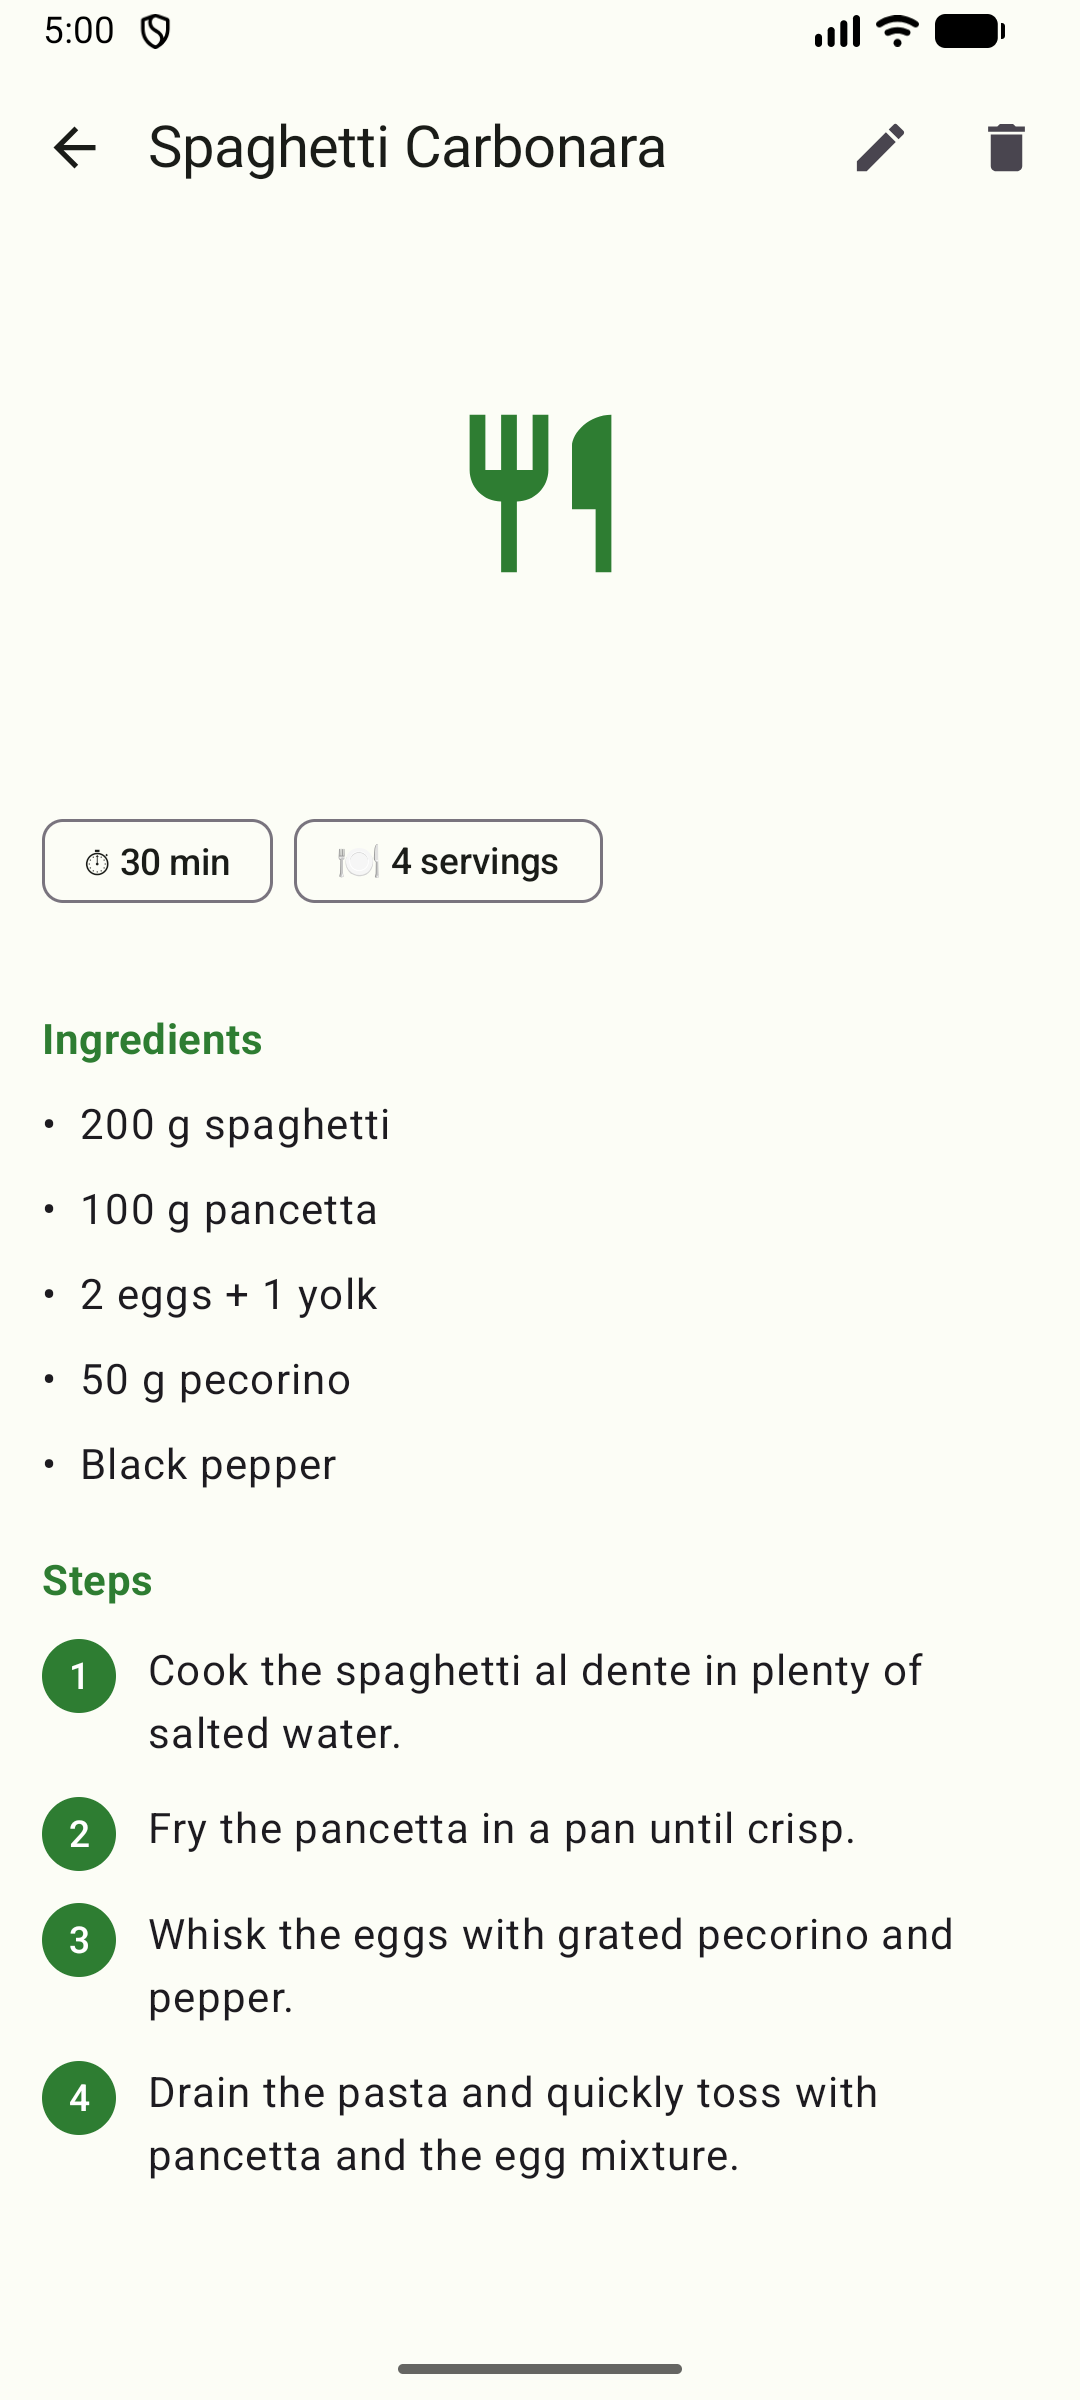
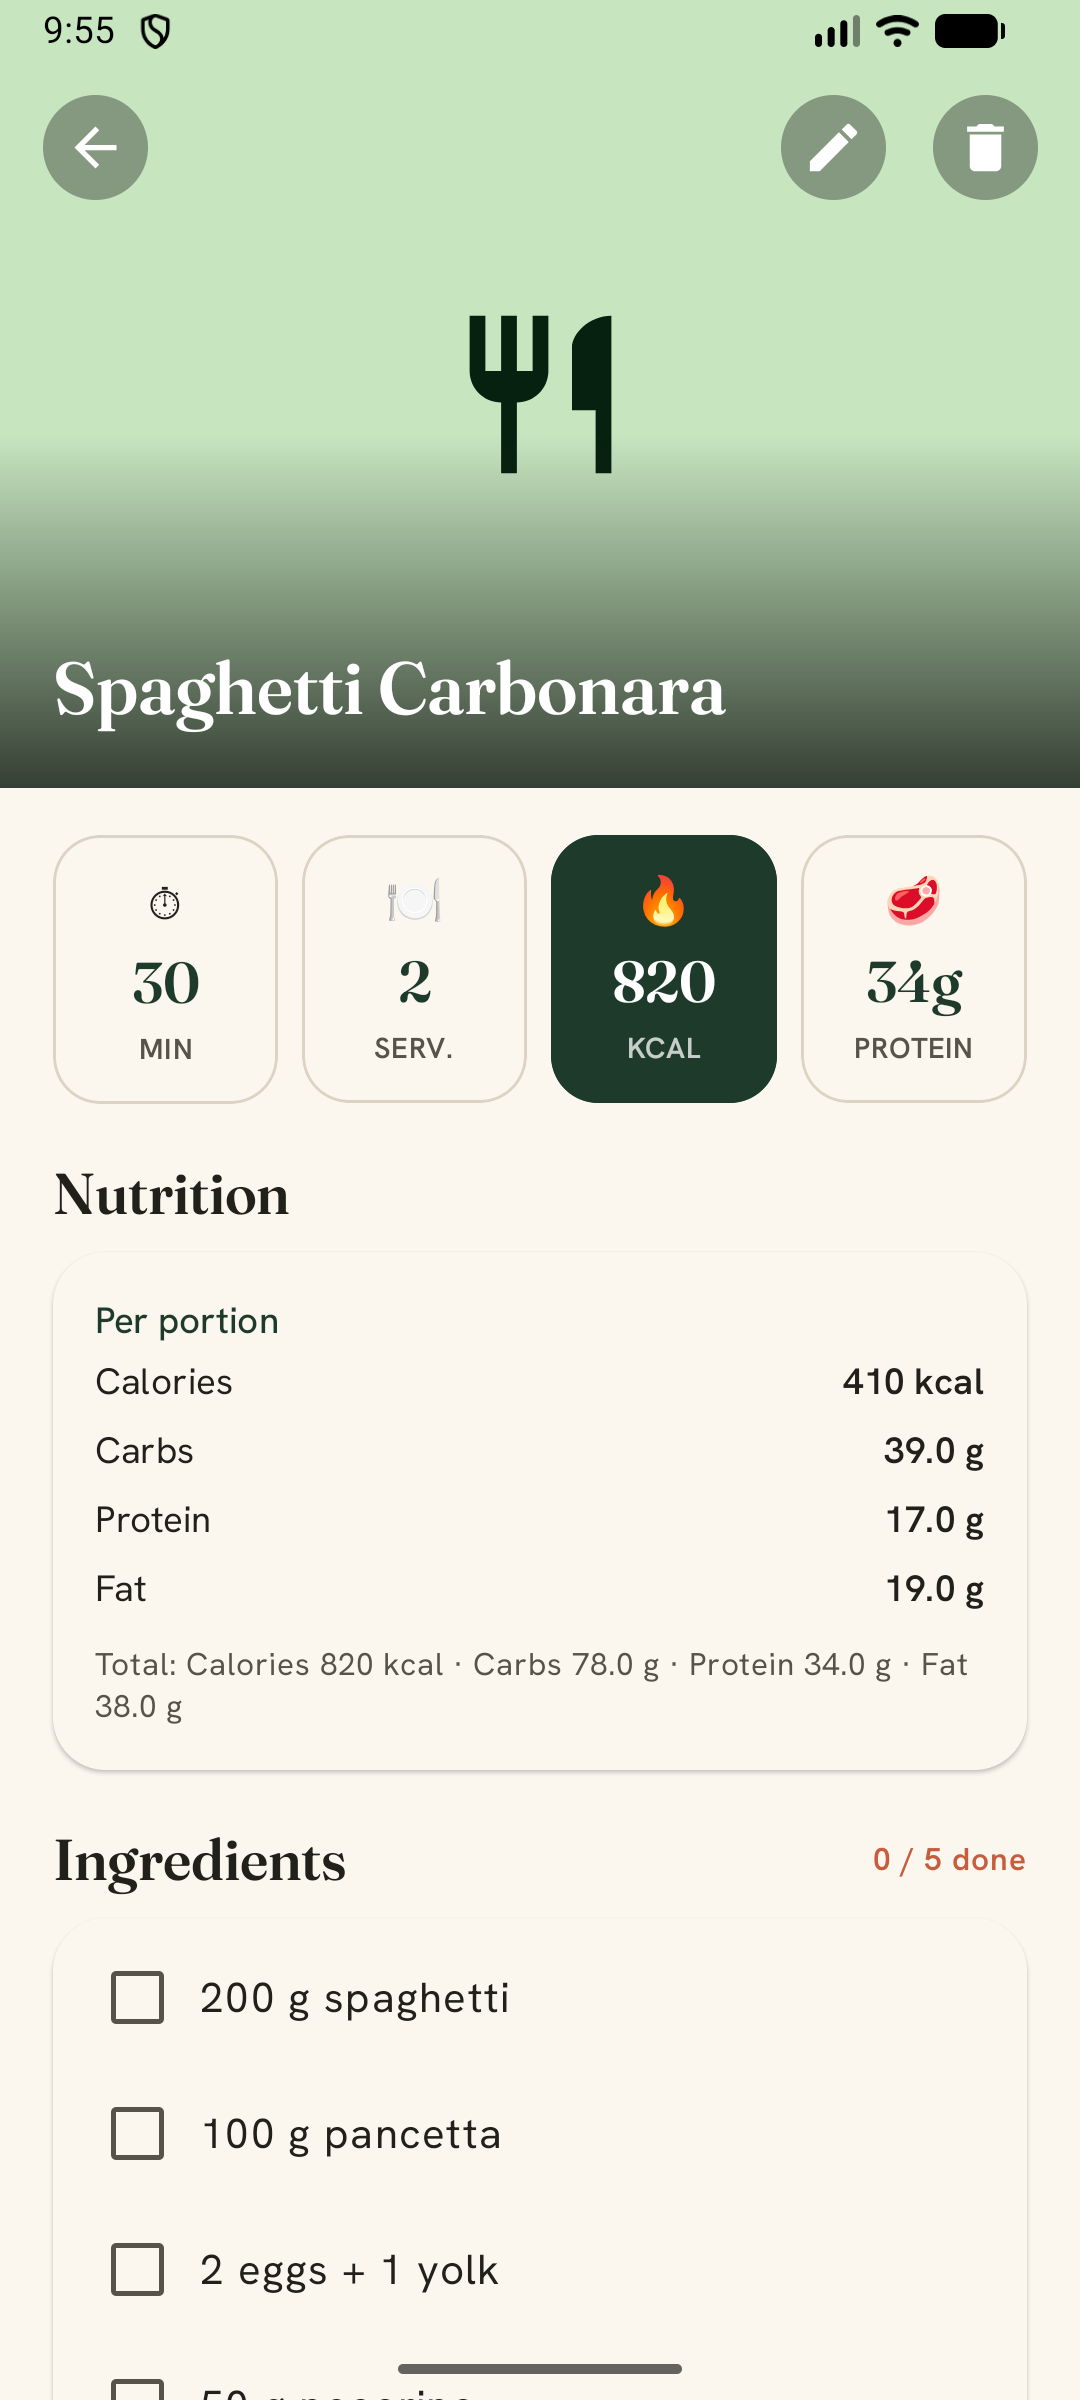
docs: refresh README screenshots and copy for the warm UI redesign
The screenshots showed the old green Material 3 UI and predated the
category and nutrition features. Regenerate all three (list, detail,
edit) from the current "Warm Editorial Kitchen" build with demo data,
and update the README text: theme description (cream/forest/terracotta,
serif headings), the feature list (category filter + nutrition), and
remove categories from the out-of-scope list now that they ship.

diff --git a/README.md b/README.md
@@ -1,8 +1,8 @@
 # Recipely 🍃
 
-A lean, native **Android app** for creating, viewing, editing and deleting cooking recipes — fully **offline**, with a modern Material 3 UI in fresh green.
+A lean, native **Android app** for creating, viewing, editing and deleting cooking recipes — fully **offline**, with a warm, editorial Material 3 UI (cream, forest green & terracotta, serif display headings).
 
-Each recipe has a name (required), an optional title image, optional prep time and servings, an ingredient list, and numbered preparation steps with an optional image per step. The UI is fully localized — **English by default, German on German-locale devices.**
+Each recipe has a name (required), an optional title image, an optional category, optional prep time, servings and nutrition (calories + macros), an ingredient list, and numbered preparation steps with an optional image per step. The UI is fully localized — **English by default, German on German-locale devices.**
 
 ## Screenshots
 
@@ -22,14 +22,16 @@ Each recipe has a name (required), an optional title image, optional prep time a
 
 ## Features
 
-- 📋 **Recipe list** with compact rows (thumbnail, name, "⏱ time · 🍽 servings"), sorted alphabetically
-- 👀 **Detail view**: title image, time/servings chips, ingredient list, numbered steps with an optional step image
-- ✏️ **Create & edit** via a dynamic form (add/remove ingredients and steps freely)
+- 📋 **Recipe list** of rich image cards (title image, category badge, "⏱ time · 🍽 servings · 🔥 kcal"), sorted alphabetically — with a **category filter bar**
+- 👀 **Detail view**: hero image, stat cards (time · servings · calories · protein), an optional **nutrition breakdown** (per portion & total), check-off ingredient list, and numbered steps with an optional step image
+- 🏷️ **Categories**: optionally tag a recipe (Main, Breakfast, Salad, Baking, Dessert, Snack) and filter the list by category
+- 🔥 **Nutrition (optional)**: total calories, carbs, protein & fat per recipe — shown both per portion and as a total
+- ✏️ **Create & edit** via a dynamic form (add/remove ingredients and steps freely, pick a category, enter optional nutrition values)
 - 🖼️ **Images** from the **gallery** (Photo Picker) or **camera** — for the title image and per step
 - 🗑️ **Delete** with a confirmation dialog
 - 💾 **Offline-first**: local storage via Room; images are copied into app-internal storage and the database keeps only the paths — orphaned image files are cleaned up automatically
 - 🌍 **Localized**: English (default) and German
-- 🎨 Fixed green **Material 3** theme (light/dark automatic)
+- 🎨 Warm, fixed **Material 3** theme (cream, forest green & terracotta) — light/dark automatic, no dynamic color
 
 ## Tech stack
 
@@ -103,7 +105,7 @@ app/src/main/java/com/nwe/recipely/
 ├─ data/                     # Room: entities, DAO, Database, ImageStore, Repository
 ├─ navigation/               # RecipelyNavHost + Routes
 └─ ui/
-   ├─ theme/                 # green Material 3 theme (Color/Type/Theme)
+   ├─ theme/                 # warm Material 3 theme — cream/forest/terracotta (Color/Type/Theme)
    ├─ list/                  # RecipeListScreen + ViewModel
    ├─ detail/                # RecipeDetailScreen + ViewModel
    └─ edit/                  # RecipeEditScreen + ViewModel + form state/mapping
@@ -113,4 +115,4 @@ UI strings are localized via `app/src/main/res/values/strings.xml` (English) and
 
 ## Out of scope (by design)
 
-Search, tags/categories, cloud sync, export/share and serving scaling are intentionally not included — the app stays simple and focused on the essentials.
+Search, tags, cloud sync, export/share and serving scaling are intentionally not included — the app stays simple and focused on the essentials.